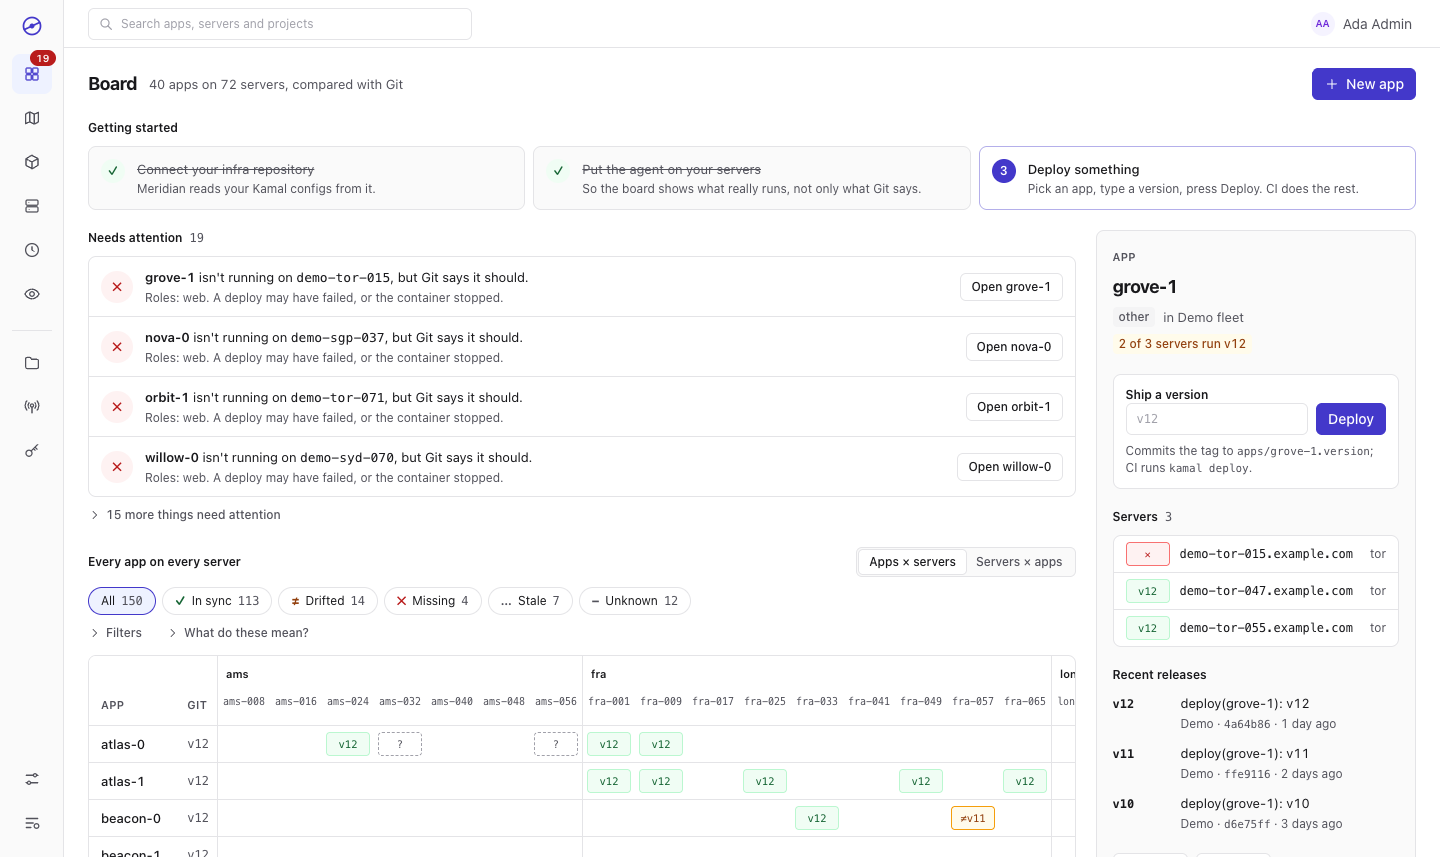
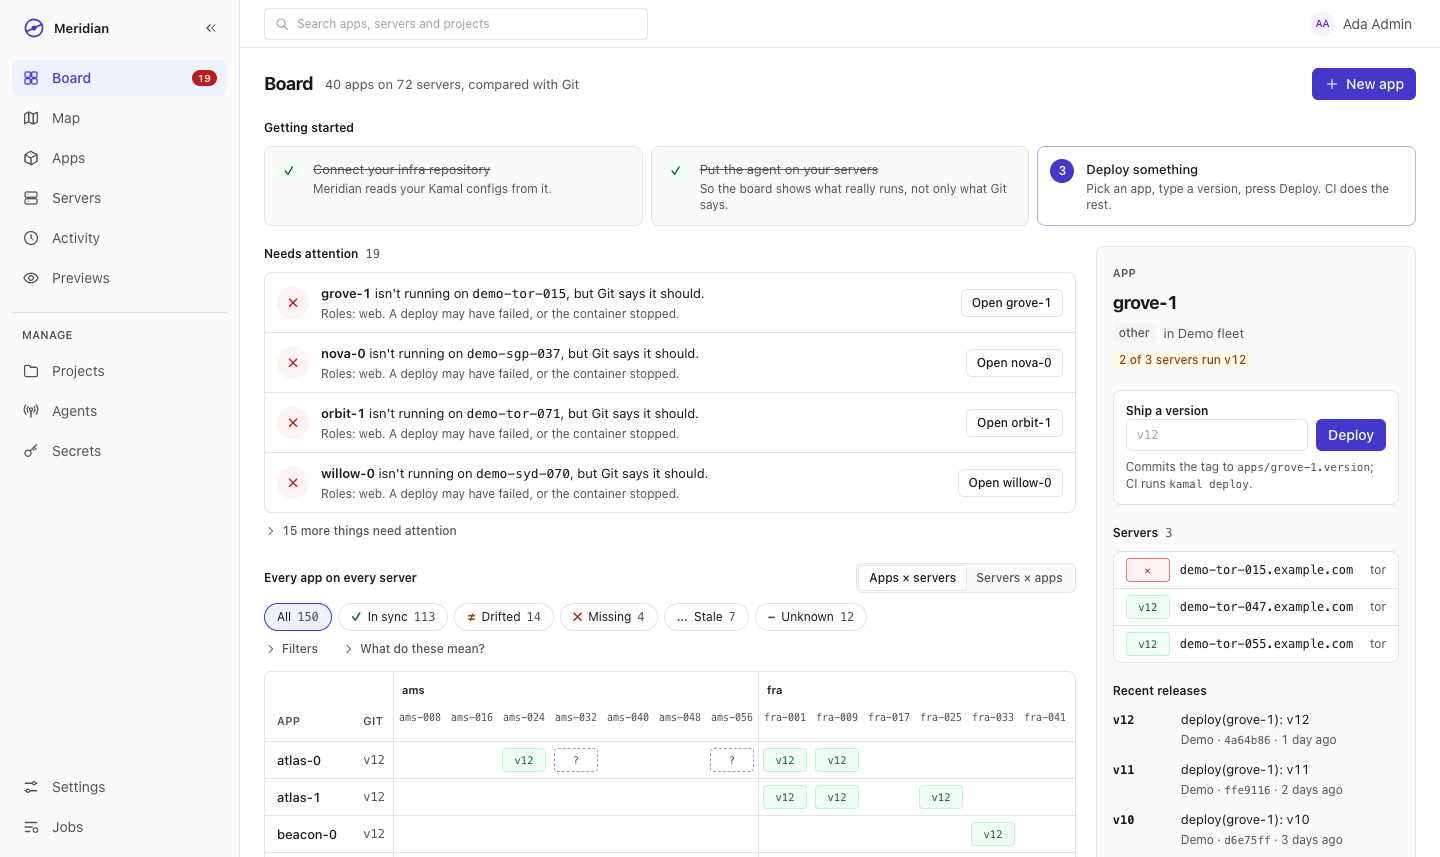
feat(ui): collapsible sidebar, picked from three mockups
The sidebar shows names again and collapses to the icon rail with the «
button beside the logo; » at the bottom of the rail brings it back.

- The choice is a sidebar cookie, so the server renders the right width on
  every page with no flicker. The toggle only flips data-collapsed on the
  shell; collapsed styles hang off group-data-[collapsed]/shell.
- Focus moves to the twin toggle, since the pressed one hides itself.
- The phone drawer is unchanged and always shows names.

diff --git a/app/javascript/controllers/sidebar_controller.js b/app/javascript/controllers/sidebar_controller.js
@@ -1,0 +1,14 @@
+import { Controller } from "@hotwired/stimulus"
+
+// Collapses the sidebar to its icon rail and back. The choice is a cookie,
+// so the server renders the same width on the next page with no flicker.
+export default class extends Controller {
+  toggle() {
+    const collapsed = !this.element.hasAttribute("data-collapsed")
+    this.element.toggleAttribute("data-collapsed", collapsed)
+    document.cookie = `sidebar=${collapsed ? "collapsed" : "expanded"}; path=/; max-age=31536000; SameSite=Lax`
+    this.element.querySelectorAll("[data-sidebar-toggle]").forEach(button => button.setAttribute("aria-expanded", String(!collapsed)))
+    // The button just pressed hides itself; keep keyboard focus on its twin.
+    this.element.querySelector(`[data-sidebar-toggle=${collapsed ? "expand" : "collapse"}]`)?.focus()
+  }
+}

diff --git a/app/components/sidebar_component.rb b/app/components/sidebar_component.rb
@@ -1,8 +1,12 @@
-# The app's navigation. From lg up it is a rail of icons, each named for
-# screen readers and on hover; in the phone drawer the names show beside them.
+# The app's navigation. From lg up it is a sidebar with names, which the «
+# button collapses to a rail of icons (named on hover and for screen
+# readers); » brings it back. On phones it is the drawer, always with names.
+#
+# Collapsed styles hang off the shell's data-collapsed attribute
+# (group/shell in the layout), so the toggle needs no re-render.
 class SidebarComponent < ApplicationComponent
-  def initialize(user:, attention_count: nil)
-    @user, @attention_count = user, attention_count
+  def initialize(user:, attention_count: nil, collapsed: false)
+    @user, @attention_count, @collapsed = user, attention_count, collapsed
   end
 
   private
@@ -34,16 +38,23 @@ class SidebarComponent < ApplicationComponent
       path == helpers.root_path ? request.path.in?([ helpers.root_path, helpers.board_path ]) : request.path.start_with?(path)
     end
 
+    def toggle_button(label:, icon:, css:, role:)
+      tag.button helpers.icon(icon, class: "size-4"), type: "button", title: label, aria: { label: label, expanded: (!@collapsed).to_s },
+        data: { action: "sidebar#toggle", sidebar_toggle: role },
+        class: classes("size-8 place-items-center rounded-md text-ink-muted hover:bg-raised hover:text-ink cursor-pointer", css)
+    end
+
     def nav_link(name, path, icon, badge = nil)
       current = current?(path)
       count = badge.to_i
       link_to path, title: name, aria: { current: (current ? "page" : nil) },
-        class: classes("relative flex items-center gap-3 rounded-lg px-2.5 py-2 text-sm lg:size-10 lg:justify-center lg:p-0",
-          current ? "bg-accent-soft text-accent" : "text-ink-muted hover:bg-raised hover:text-ink") do
+        class: classes("relative flex items-center gap-3 rounded-lg px-2.5 py-2 text-sm",
+          "lg:group-data-[collapsed]/shell:size-10 lg:group-data-[collapsed]/shell:justify-center lg:group-data-[collapsed]/shell:p-0",
+          current ? "bg-accent-soft font-medium text-accent" : "text-ink-muted hover:bg-raised hover:text-ink") do
         safe_join([
           helpers.icon(icon, class: "size-[18px] shrink-0"),
-          tag.span(name, class: "flex-1 lg:sr-only"),
-          (tag.span(count, class: "rounded-full bg-bad px-1.5 text-[10px] font-semibold leading-4 text-white lg:absolute lg:-right-1 lg:-top-1",
+          tag.span(name, class: "flex-1 truncate lg:group-data-[collapsed]/shell:sr-only"),
+          (tag.span(count, class: "rounded-full bg-bad px-1.5 text-[10px] font-semibold leading-4 text-white lg:group-data-[collapsed]/shell:absolute lg:group-data-[collapsed]/shell:-right-1 lg:group-data-[collapsed]/shell:-top-1",
             aria: { label: "#{helpers.pluralize(count, "thing")} need attention" }) if count.positive?)
         ].compact)
       end

diff --git a/test/system/sidebar_test.rb b/test/system/sidebar_test.rb
@@ -45,4 +45,36 @@ class SidebarTest < ApplicationSystemTestCase
   ensure
     page.driver.browser.manage.window.resize_to(1400, 1000)
   end
+
+  test "the sidebar collapses to a rail, stays that way across pages, and expands again" do
+    sign_in users(:viewer)
+    assert_selector "#sidebar a[aria-current=page] span", text: "Board", visible: true
+
+    click_on "Collapse sidebar"
+    assert_selector "[data-controller=sidebar][data-collapsed]"
+    assert_equal "Expand sidebar", page.evaluate_script("document.activeElement.getAttribute('aria-label')"), "focus moves to the twin toggle"
+    assert wait_until { sidebar_width < 80 }, "the rail is narrow once the width settles"
+
+    visit map_path
+    assert_selector "[data-controller=sidebar][data-collapsed]", wait: 0
+    assert_operator sidebar_width, :<, 80, "rendered collapsed by the server, with no animation"
+    assert_selector "#sidebar a[title=Map][aria-current=page]"
+
+    click_on "Expand sidebar"
+    assert_no_selector "[data-controller=sidebar][data-collapsed]"
+    visit root_path
+    assert_operator sidebar_width, :>, 200
+  end
+
+  private
+    def sidebar_width = page.evaluate_script("document.getElementById('sidebar').getBoundingClientRect().width")
+
+    def wait_until(timeout: Capybara.default_max_wait_time)
+      deadline = Process.clock_gettime(Process::CLOCK_MONOTONIC) + timeout
+      until (result = yield)
+        break if Process.clock_gettime(Process::CLOCK_MONOTONIC) > deadline
+        sleep 0.05
+      end
+      result
+    end
 end

diff --git a/test/components/sidebar_component_test.rb b/test/components/sidebar_component_test.rb
@@ -15,4 +15,13 @@ class SidebarComponentTest < ViewComponent::TestCase
     with_request_url("/") { render_inline SidebarComponent.new(user: users(:viewer)) }
     assert_no_link "Settings"
   end
+
+  test "the toggles say whether the sidebar is open" do
+    with_request_url("/") { render_inline SidebarComponent.new(user: users(:viewer)) }
+    assert_selector "button[data-sidebar-toggle=collapse][aria-expanded=true][aria-label='Collapse sidebar']"
+    assert_selector "button[data-sidebar-toggle=expand][aria-expanded=true][aria-label='Expand sidebar']"
+
+    with_request_url("/") { render_inline SidebarComponent.new(user: users(:viewer), collapsed: true) }
+    assert_selector "button[data-sidebar-toggle][aria-expanded=false]", count: 2
+  end
 end

diff --git a/app/helpers/icons_helper.rb b/app/helpers/icons_helper.rb
@@ -15,6 +15,8 @@ module IconsHelper
     search: '<circle cx="10.5" cy="10.5" r="6"/><path d="m20 20-5-5"/>',
     plus: '<path d="M12 5v14M5 12h14"/>',
     chevron: '<path d="m6 9 6 6 6-6"/>',
+    collapse: '<path d="M11 17l-5-5 5-5M18 17l-5-5 5-5"/>',
+    expand: '<path d="M13 17l5-5-5-5M6 17l5-5-5-5"/>',
     keyboard: '<rect x="3" y="6" width="18" height="12" rx="2"/><path d="M7 10h.01M11 10h.01M15 10h.01M7 14h10"/>',
     sign_out: '<path d="M14 4h4a2 2 0 0 1 2 2v12a2 2 0 0 1-2 2h-4M10 16l-4-4 4-4M6 12h10"/>',
     logo: '<circle cx="12" cy="12" r="8.5"/><circle cx="12" cy="12" r="1.6" fill="currentColor"/><path d="m4.5 15.5 15-7"/>'

diff --git a/app/helpers/application_helper.rb b/app/helpers/application_helper.rb
@@ -1,6 +1,9 @@
 module ApplicationHelper
   # How many things need attention, for the sidebar. Cached briefly: it is
   # shown on every page and the board refreshes itself anyway.
+  # Whether this browser collapsed the sidebar to its icon rail.
+  def sidebar_collapsed? = cookies[:sidebar] == "collapsed"
+
   def attention_count
     Rails.cache.fetch("attention-count", expires_in: 15.seconds) { Board.new.attention.size }
   end

diff --git a/docs/design.md b/docs/design.md
@@ -17,9 +17,9 @@ Browse every component, in every state, at [`/lookbook`](http://localhost:3000/l
 
 ## Layout
 
-- **Icon rail** (`SidebarComponent`): the main places (Board, Map, Apps, Servers, Activity, Previews), then Projects, Agents and Secrets, and Settings and Jobs for admins at the bottom. Each icon is named on hover and for screen readers; the Board icon carries the number of things that need attention.
+- **Sidebar** (`SidebarComponent`): the main places (Board, Map, Apps, Servers, Activity, Previews), then Projects, Agents and Secrets under Manage, and Settings and Jobs for admins at the bottom. The Board carries the number of things that need attention. The « button beside the logo collapses it to an icon rail (each icon named on hover and for screen readers) and » brings it back. The choice is a cookie, so the server renders the right width on every page with no flicker; the toggle itself only flips `data-collapsed` on the shell, and collapsed styles hang off that (`group-data-[collapsed]/shell:`).
 - **Top bar** (`TopbarComponent`): a search box that finds any app, server or project as you type (Enter opens the first match), and the account menu with sign out.
-- **Phones:** the rail is a native `popover` drawer behind a **Menu** button, with the names beside the icons, so it needs no JavaScript.
+- **Phones:** the sidebar is a native `popover` drawer behind a **Menu** button, always with names, so it needs no JavaScript.
 - **Main column and side panel:** the Board, the Map, an app and a server put their content in a main column and what you act on in a panel on the right: the Map's panel shows the place you click (`PlaceInspectorComponent`): its servers with the version each app runs, the places it shares apps with, and what is wrong there; the Board's panel inspects the app you click (`AppInspectorComponent`, in a Turbo Frame, so the grid stays put and the URL remembers it); an app's panel ships versions and shows the current deploy; a server's panel holds its facts, labels and location. On narrow screens the panel drops below.
 - Other pages are `max-w-6xl`; the Board, Map, apps and servers use full width with `content_for :wide`.
 - **Sign-in and first run** use a centred card (`layouts/auth.html.erb`).

diff --git a/docs/decisions.md b/docs/decisions.md
@@ -28,3 +28,4 @@ These are short entries, newest last. Each records a choice made where the spec 
 24. **A left sidebar replaces the central menu.** The main places stay visible, and the search box finds any app, server or project. On phones the same sidebar is a native `popover` drawer, so it needs no JavaScript.
 25. **The Inspector layout, picked from three mockups.** Console (dark and dense), Paper (light and calm) and Inspector were drawn side by side before any code changed. Inspector won: a grid where every cell shows the version actually running, and a side panel for the app you click. The panel is a Turbo Frame, so selecting an app swaps only the panel and the URL (`?inspect=`) keeps the choice across refreshes. Navigation became an icon rail with a top bar for search, which gives the grid the width it needs. The board now groups servers by region whenever they span more than one region, not only above 30 servers.
 26. **Map dots are SVG links that Turbo visits through a small Stimulus controller.** Turbo reads `link.href` as a string, but inside an `<svg>` it is an `SVGAnimatedString`, so Turbo threw on every click and the browser fell back to a full reload. `svg_link_controller.js` handles the click and calls `Turbo.visit`. Picking a place is a whole-page visit, not a frame, because the ring, the names and the table highlight move with the panel.
+27. **The sidebar collapses with a toggle, picked from three mockups.** Toggle (« and »), Peek (a rail that slides out on hover) and Sections (folding groups and recent apps) were drawn first; the toggle won for being predictable. The state is a `sidebar` cookie rather than local storage so the server renders the right width and the page never jumps; it is a display preference, not a setting, so it stays per browser.

diff --git a/CHANGELOG.md b/CHANGELOG.md
@@ -9,7 +9,7 @@
 - App and server pages use the same layout: content on the left, what you act on in a panel on the right.
 - The Map works the same way: click a place to see its servers, the version each app runs there, and the places it shares apps with. Dots show how many servers share a spot and turn purple while a deploy goes out; only places that need you are named, so Europe no longer crowds. App chips filter the map, and the places table lists problems first.
 - Fixed: clicking a place on the map made Turbo throw and reload the whole page.
-- An icon rail replaces the sidebar, with search and the account menu in a top bar. On phones the rail is a drawer behind a Menu button.
+- The sidebar shows names and collapses to an icon rail with « (» brings it back); each browser remembers the choice. Search and the account menu sit in a top bar. On phones the sidebar is a drawer behind a Menu button.
 - Built with Tailwind 4 (standalone binary, still no Node) and a ViewComponent library, `app/components/ui/`, browsable at `/lookbook` in development.
 - Install snippets and one-time tokens have a copy button. Servers list their place (city and region) in its own column.
 - The board opens on **Needs attention**: plain sentences such as "web isn't running on web-2, but Git says it should". A getting-started checklist appears on new installs, and each app has a one-line status ("✓ Running v42 everywhere").
